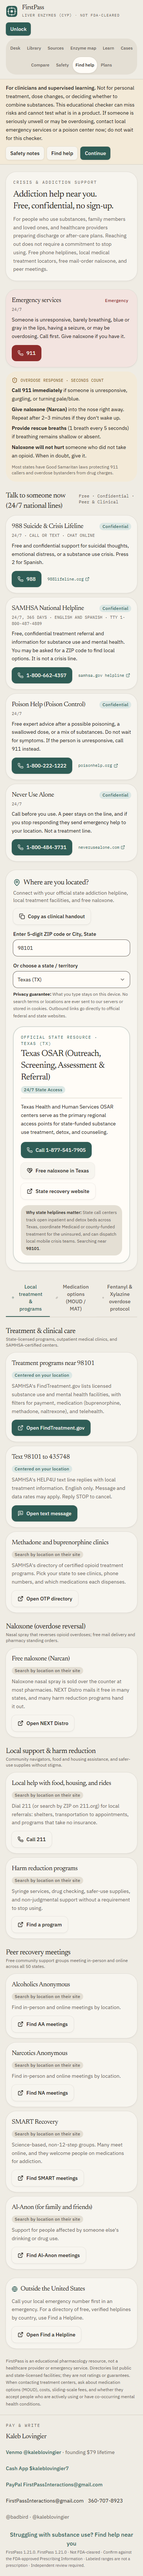
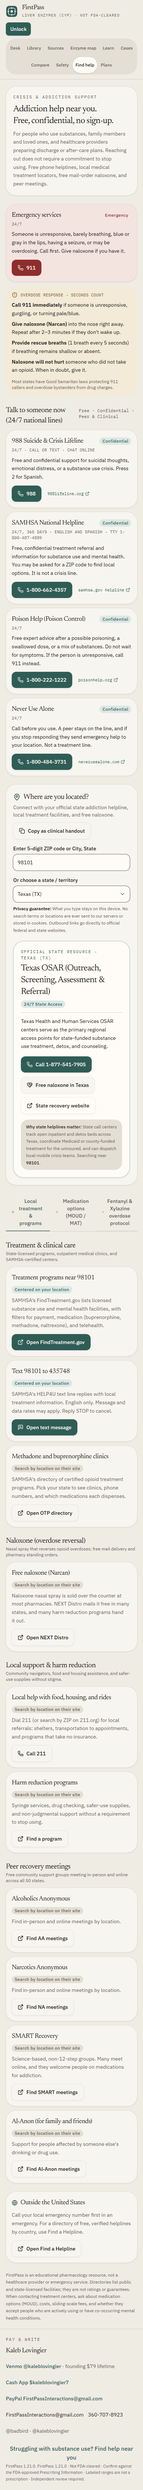
screenshots

Changed region(s): [[0.0308, 0.0, 0.9231, 0.996], [0.6769, 0.8093, 0.7692, 0.8404], [0.8, 0.8093, 0.8615, 0.8404]]

diff --git a/src/components/desk/clinical.tsx b/src/components/desk/clinical.tsx
@@ -662,6 +662,7 @@ function ReversalPanel({ rows }: { rows: ReturnType<typeof reversalOnDesk> }) {
         <span>Need naloxone (Narcan) or addiction support? Locate free mail-order naloxone, overdose peer monitoring, and local treatment.</span>
         <button
           type="button"
+          aria-pressed={false}
           onClick={() => {
             useDesk.getState().setView("help");
             window.scrollTo({ top: 0 });
@@ -1540,6 +1541,7 @@ function OtpPanel({ ids, qtPartner }: { ids: string[]; qtPartner: boolean }) {
         <span>Need local treatment services? Find licensed Opioid Treatment Programs (OTPs), medical detox, and state addiction helplines.</span>
         <button
           type="button"
+          aria-pressed={false}
           onClick={() => {
             useDesk.getState().setView("help");
             window.scrollTo({ top: 0 });
